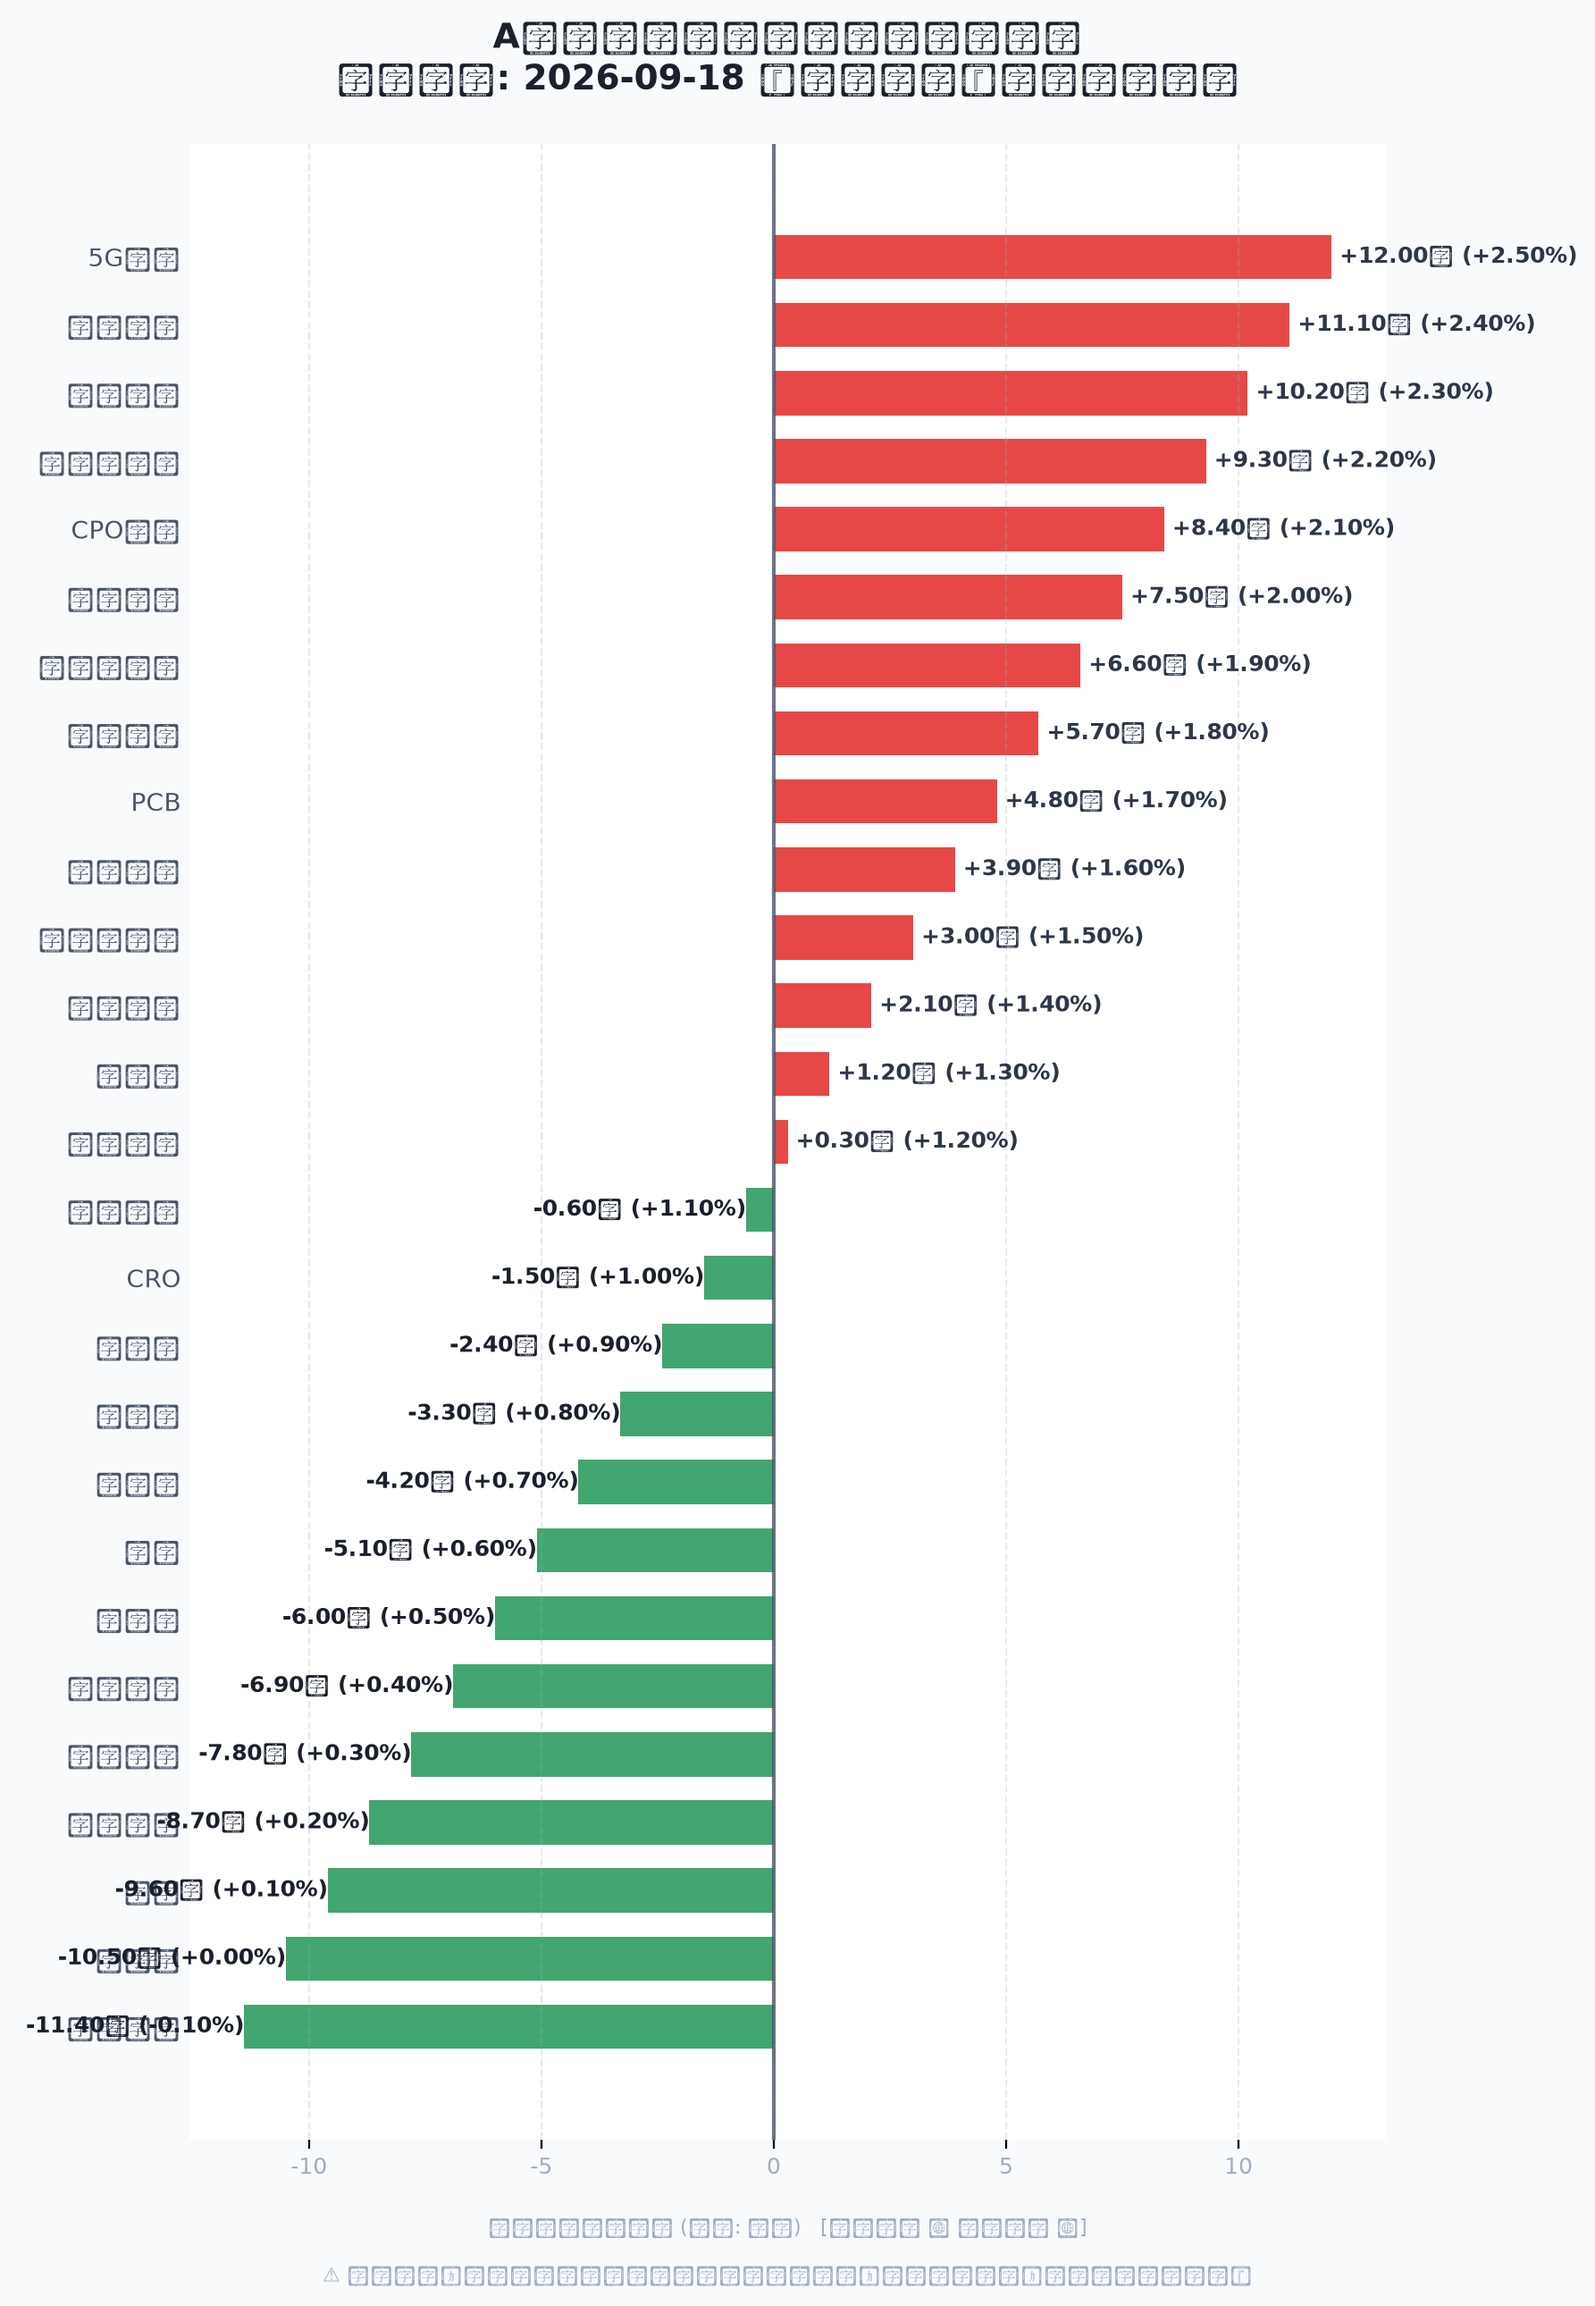
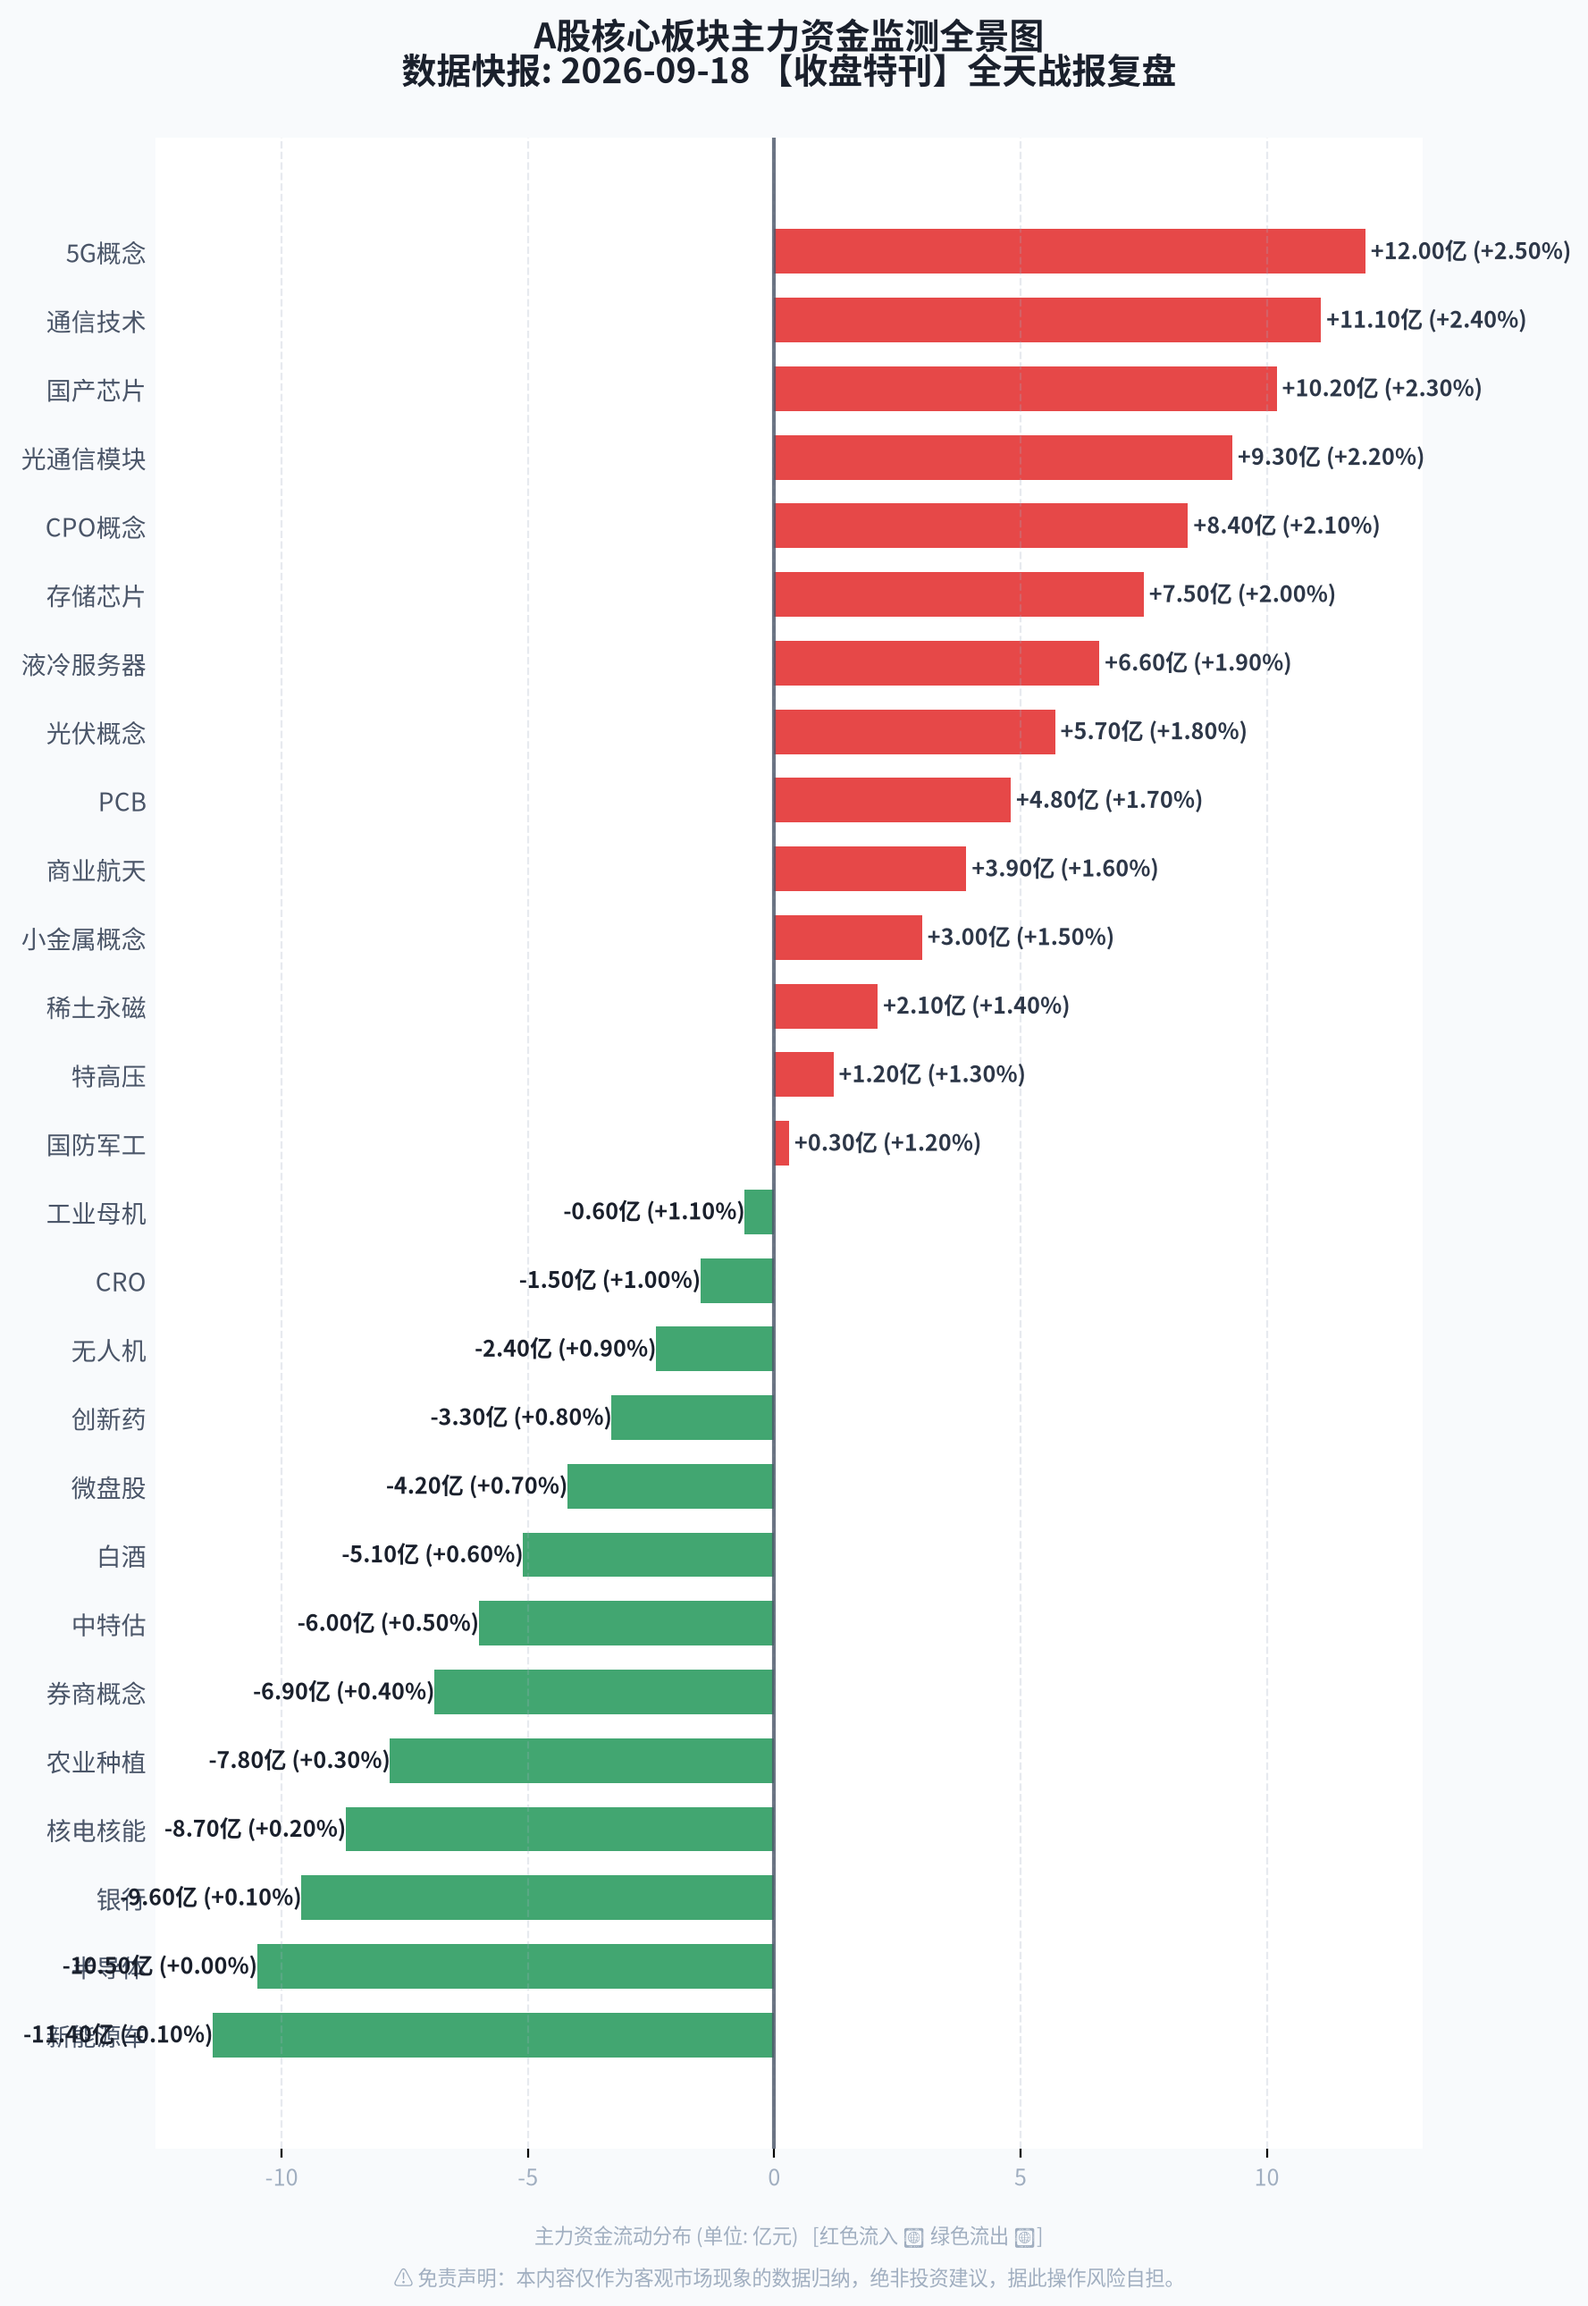
自动更新收盘主力资金长图

Changed region(s): [[0.031, 0.0, 0.9904, 0.9302], [0.031, 0.093, 0.1238, 0.3411], [0.2167, 0.9612, 0.7738, 0.9922]]

diff --git a/main.py b/main.py
@@ -106,7 +106,7 @@ def generate_infographic_image(data_list, report_type):
     """
     根据运行时间段自动变换图表大标题
     """
-    plt.rcParams['font.sans-serif'] = ['DejaVu Sans', 'sans-serif', 'Arial Unicode MS']
+    plt.rcParams['font.sans-serif'] = ['Noto Sans CJK SC', 'DejaVu Sans', 'sans-serif', 'Arial Unicode MS']
     plt.rcParams['axes.unicode_minus'] = False     
 
     data_list = data_list[::-1]
